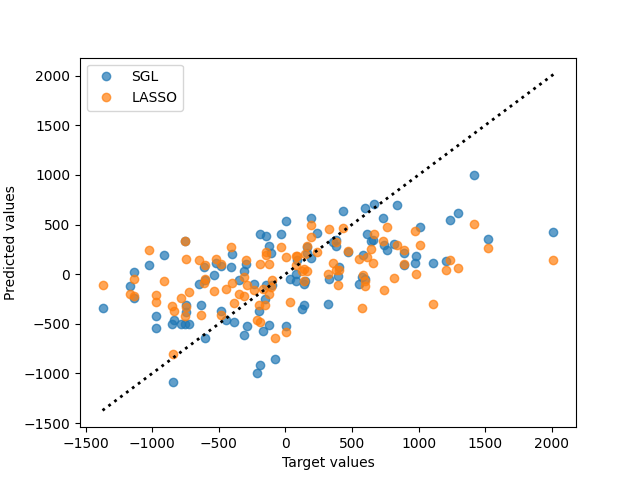
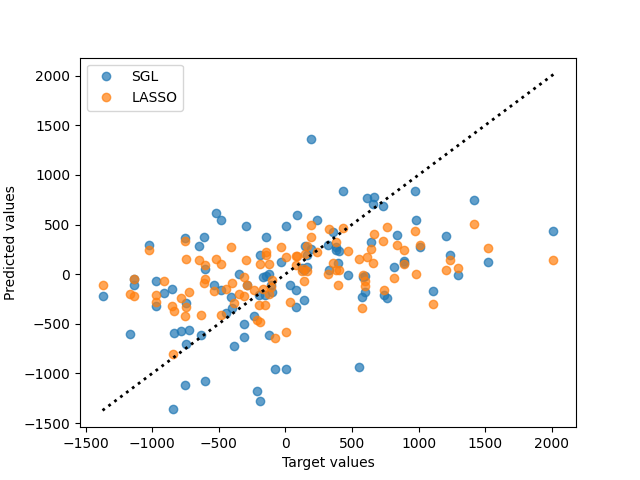
Deploying to gh-pages from  @ ad6680475519f0c9cb05071dbbd4b1300fb7b66e 🚀

diff --git a/searchindex.js b/searchindex.js
@@ -1,1 +1,1 @@
-Search.setIndex({docnames:["api","auto_examples/compare_group_lasso_performance","auto_examples/index","auto_examples/plot_classifier","auto_examples/plot_regressor","auto_examples/sg_execution_times","contributing","faq","getting_help","index","install"],envversion:{"sphinx.domains.c":2,"sphinx.domains.changeset":1,"sphinx.domains.citation":1,"sphinx.domains.cpp":3,"sphinx.domains.index":1,"sphinx.domains.javascript":2,"sphinx.domains.math":2,"sphinx.domains.python":2,"sphinx.domains.rst":2,"sphinx.domains.std":2,"sphinx.ext.intersphinx":1,"sphinx.ext.viewcode":1,sphinx:56},filenames:["api.rst","auto_examples/compare_group_lasso_performance.rst","auto_examples/index.rst","auto_examples/plot_classifier.rst","auto_examples/plot_regressor.rst","auto_examples/sg_execution_times.rst","contributing.rst","faq.rst","getting_help.rst","index.rst","install.rst"],objects:{"groupyr.datasets":{make_group_classification:[0,1,1,""],make_group_regression:[0,1,1,""]},groupyr:{LogisticSGL:[0,0,1,""],LogisticSGLCV:[0,0,1,""],SGL:[0,0,1,""],SGLCV:[0,0,1,""]}},objnames:{"0":["py","class","Python class"],"1":["py","function","Python function"]},objtypes:{"0":"py:class","1":"py:function"},terms:{"000":[1,5],"001":0,"0x7f089fbdad30":4,"100":[0,1,3],"1000":[0,1],"105":5,"10618600":0,"108":9,"1080":0,"122":9,"1283339":9,"150":1,"164":[4,5],"170":4,"1729":[3,4],"194":4,"1rf1mh121868":9,"200":[1,3],"2003":0,"201":3,"2011":9,"2012":0,"2013":9,"2020":9,"203":3,"205":3,"208":3,"209":3,"211":3,"212":3,"214":3,"217":3,"231":[0,9],"240":3,"243":3,"244":3,"245":[0,3,9],"246":3,"250":1,"251":3,"252":3,"256":3,"257":3,"259":3,"261":3,"262":3,"264":3,"265":4,"267":3,"271":3,"272":3,"274":3,"276":3,"277":3,"279":3,"2825":9,"2830":9,"293":4,"345":4,"400":[1,4],"446":4,"468":4,"500":4,"5281":9,"550":4,"559":4,"600":4,"610":4,"681250":0,"683":4,"768":4,"941":[3,5],"boolean":0,"case":0,"class":0,"default":[0,4,9],"float":0,"function":0,"import":[1,2,3,4],"int":[0,1],"new":[7,10],"public":9,"return":0,"true":[0,1,3,4],"try":[0,7],"while":0,And:9,For:[0,9],The:[0,3,4,7,10],There:7,These:[0,2,7],Use:0,__init__:0,_split:4,about:[0,7,8],abov:[9,10],accept:9,accuracy_scor:0,actual:0,adapt:0,add:0,added:0,addit:[1,9],address:7,aforement:7,after:0,alfr:9,algorithm:0,align:0,all:[0,2,8,9,10],allow:[7,8],along:[0,9],alpha:[0,1,4,9],alpha_:0,alpha_max:0,alpha_min:0,alphas_:0,also:[0,6,7,9],altern:[0,10],amount:0,ani:[0,8],anoth:7,append:1,appli:0,appreci:9,approach:9,appropri:[0,6],arang:3,arbitrari:0,ariel:9,around:0,arrai:[0,1,9],arriv:9,ask:8,assign:[0,9],associ:9,attempt:9,attribut:0,auto:1,auto_exampl:5,auto_examples_jupyt:2,auto_examples_python:2,automat:[0,9],balanc:0,base:[7,9],bay:[0,4,9],bayes_optimizer_:0,bayesian:0,bayessearchcv:[0,7],bbox_inch:1,becaus:[0,2,9],befor:[0,8],behavior:9,belong:[0,9],benchmark:0,best:[0,3,9],beta:9,better:7,betti:9,between:[0,9],bia:0,bibtex:9,black:[3,4],bool:0,borrow:9,both:[7,9],brain:9,brows:8,bug:8,built:[0,7],buitnick:9,calcul:0,call:0,callabl:0,can:[0,2,8,9,10],canon:0,capabl:0,center:0,character:9,choic:0,chosen:[0,2],chosen_features_:3,citat:9,class_sep:0,classes_:0,classif:0,classifi:0,click:[1,3,4],clone:10,close:0,cluster:0,code:[1,2,3,4,7,10],coef:[0,1,3,4],coef_:[0,3],coeffici:[0,3,9],collabor:6,color:4,column:9,com:10,combin:[0,9],compar:[2,3,4,7],compare_group_lasso_perform:[1,5],comparison:[2,5],compat:[0,9],compliant:0,complic:9,compos:0,composit:9,compris:0,compromis:0,comput:[0,9],concaten:1,consequ:0,conserv:0,consid:0,constant:0,construct:0,contain:0,context:0,contigu:0,contrast:0,contribut:10,control:9,converg:0,copi:0,copt:[0,9,10],copy_x:0,cost:0,covari:[0,2,7,9],cpu:0,creat:[0,7],credit:6,criterion:0,cross:[7,9],current:9,data:[0,2,4,8,9],dataset:[1,3,4],debug:0,decis:0,defin:[1,9],demonstr:2,depend:0,descent:0,describ:9,design:[0,7,9],detail:[6,9],determin:[0,9],develop:[6,9],deviat:0,did:7,differ:[0,9],difficult:9,dimens:0,dimension:[0,9],distribut:0,divid:0,document:[0,7],doe:[0,7],doi:[0,9],done:9,download:[1,2,3,4],drawn:0,duplic:0,dure:[0,9],each:0,easier:0,ecml:9,ecosystem:0,effect:[0,4],effective_rank:0,effici:[0,9],either:[0,9,10],elasticnet:[0,9],elasticnetcv:9,element:0,ell:9,els:0,encod:0,encourag:[0,7],entri:[0,9],enumer:1,eps:[0,3],equal:0,error:[0,4],escienc:9,estim:[2,3,4,7,9],ethic:8,evalu:[0,9],even:9,examin:8,exampl:[0,1,3,4,10],exce:0,exchang:0,execut:[5,7],exhaust:9,exist:8,expect:0,experi:[0,9],explain:0,face:8,facilit:9,factor:0,fals:[0,4],familiar:[0,9],far:9,faster:7,featur:[0,1,2,3,9,10],features_per_group:0,feedback:7,fewer:[0,9],fig:1,figsiz:1,file:[5,7],find:[0,7,9],fit:[0,1,3,4,9],fit_intercept:0,fix:0,flag:0,flip:9,flip_i:0,fold:0,fontsiz:1,format:4,formula:0,forth:7,found:7,foundat:9,frac:9,fraction:0,friedman:[0,9],frobenius_lipschitz:1,from:[0,1,3,4,6,9,10],full:[1,3,4,9],fulli:0,further:[0,10],futur:7,futurewarn:4,galleri:[1,2,3,4,9,10],gaussian:0,gener:[1,2,3,4],get:[7,9],giant:0,git:10,github:[8,10],give:[0,9],gl_group:1,gl_time:1,global:[1,9],glossari:0,good:[0,7],gordon:9,gpr:[1,4],gpr_time:1,gradient:0,grant:9,graphic:[0,9],green:3,grid:[0,7,9],gridsearchcv:9,ground:[2,3,4],group:[2,5,7],group_lasso:[1,7],group_length:0,group_reg:1,group_siz:1,grouplasso:1,groupyr:[0,2,3,4,5,7,10],groupyr_speedup:1,grp:1,guess:9,guid:[0,6,9,10],guidelin:10,guyon:0,happen:0,happi:7,harder:0,has:[0,4,7],hasti:[0,9],hat:9,have:[0,7],heavili:9,help:7,here:[0,1,3,4,6,7,8,9],high:[4,9],highlight:3,hope:7,hostedtoolcach:4,hot:0,how:[2,7,8,10],howev:[7,9],http:10,hyper:0,hypercub:0,hyperparamet:[0,9],idx:[1,3],ignor:0,imag:9,implement:9,impor:3,includ:[0,7,10],include_solver_trac:0,increas:0,independ:0,index:3,indic:[0,3,9],infer:0,inform:[0,3,7,8,9,10],initi:[0,9],input:0,instal:[1,8],instanc:0,instanti:9,instead:0,institut:9,instruct:9,integ:0,intend:[0,9],intercept:0,intercept_:0,interdepend:0,introduc:0,introductori:9,ipynb:[1,3,4],isn:7,issu:[7,8],iter:0,its:[4,9,10],jerom:0,joblib:0,join:1,journal:[0,9],jupyt:[1,2,3,4],just:0,kei:9,keyword:9,kfold:[0,4],know:[2,8],known:0,l1_ratio:[0,1,3,4,9],l1_ratio_:0,l1_reg:1,label:[0,3,4],lambda:9,languag:9,larger:0,lasso:[2,5,7],lassocv:4,last:0,latest:9,learn:[0,7,9,10],leav:[4,7],legend:[3,4],len:[0,1],length:[0,9],less:10,let:8,level:4,lib:4,librari:[7,9],licens:[6,9],lightn:7,like:[0,10],linear:[0,9],linear_model:4,linearli:0,list:[0,7,9],loc:3,locat:0,log:0,logist:[0,2,5],logistic_sgl_path:0,logisticregress:9,logisticregressioncv:9,logisticsgl:0,logisticsglcv:[0,3],logo:9,look:[0,9],love:6,machin:9,madelon:0,mai:[0,10],maintain:7,make:[0,8,9],make_blob:0,make_classif:0,make_group_classif:[0,3],make_group_regress:[0,1,4],make_multilabel_classif:0,make_regress:0,mani:7,marker:[3,4],mathbf:9,matplotlib:[1,3,4],matrix:[0,9],max:4,max_alpha:0,max_it:[0,1],max_val:4,maximum:0,mean:[0,6],mean_squared_error:4,mec:3,membership:0,method:[0,7,10],metric:[0,4],mew:3,mfc:3,might:8,mild:0,min:4,min_:9,min_val:4,mine:9,minimum:0,minumum:0,minut:[1,3,4],mixtur:9,model:[0,1,2,3,4,7,9],model_select:[0,1,4],moor:9,more:[0,6,9],most:7,multilabel:0,multipl:0,multipli:0,must:9,n_alpha:[0,3],n_bayes_it:[0,4],n_bayes_point:0,n_class:[0,3],n_clusters_per_class:0,n_featur:[0,1,3],n_features_per_group:[0,1,3,4],n_fold:0,n_group:[0,1,3,4],n_inform:0,n_informative_group:[0,1,3,4],n_informative_per_group:[0,1,3,4],n_iter:1,n_iter_:0,n_job:0,n_l1_ratio:0,n_redund:0,n_redundant_per_group:[0,3],n_repeat:0,n_repeated_per_group:[0,3],n_sampl:[0,1,3,4],n_target:0,ndarrai:0,necessari:9,need:[1,8,9],next:10,nimh:9,nine:0,nip:0,noah:0,nois:[0,1,4],non:[0,3],none:[0,3,4],norm:0,normal:[0,9],note:0,notebook:[1,2,3,4],nsgl:4,number:[0,1,9],numpi:[0,1,3,4,9,10],object:[0,4],off:0,offer:9,often:8,one:[0,7,9],onli:[0,9],open:6,oper:8,opt:4,optim:[0,7,9,10],option:0,order:0,other:[0,7],our:[6,7,8,9],out:[0,3,4,7],outperform:9,output:0,outsid:6,over:0,overal:0,overlap:0,overwritten:0,own:7,packag:[1,4,7],page:7,parallel:[0,9],parallel_backend:0,paramet:[0,9],partit:0,pass:0,path:[0,9],pdf:1,pedregosa:9,penal:[0,2,7,9],penalti:[0,7,9],per:0,perform:[2,4,5],pertin:8,pgd:0,pip:[1,10],pkdd:9,place:0,pleas:[0,7,8,9],plot:[1,3,4],plot_classifi:[3,5],plot_regressor:[4,5],plt:[1,3,4],point:0,polytop:0,posit:0,possibl:0,post:8,pre:9,predefin:9,predict:[0,4,9],predictor:0,preprocess:0,previou:[0,9],previous:9,primari:0,print:[3,4],prior:0,problem:[0,1,2,7,9],procedur:8,processor:0,produc:0,project:[6,9],promot:9,proport:0,provid:[0,8,9],proxim:0,put:0,pypi:10,pyplot:[1,3,4],python3:4,python:[1,2,3,4,7,10],qualiti:0,r2_score:4,rais:4,randal:9,random:[0,9],random_st:[0,1,3,4],randomli:0,randomst:0,ratio:1,reach:0,recommend:10,redund:0,regress:[0,2,3,7,9],regressor:0,regular:[0,9],relat:9,relationship:9,reli:9,remain:0,repeat:0,repositori:[8,10],reproduc:0,requir:10,research:[6,7,9],reshap:1,result:[0,4],reus:0,richford:10,rmse:4,robert:0,rokem:9,root:0,routin:0,rudimentari:[2,5],run:[0,1,3,4,8],runtim:0,same:[0,9],sampl:[0,8],satisfi:9,savefig:1,scale:[0,3],scale_l2_bi:0,scale_reg:1,scientif:9,scikit:[0,9,10],scipi:10,scope:7,score:0,scorer:0,scoring_path_:0,script:[1,3,4],search:[0,7,9],second:[1,3,4],see:[0,6,7,9,10],seed:0,select:[0,9],send:8,sequenti:[7,9],set:[0,4,9],set_titl:1,set_xlabel:1,set_ylabel:1,sgl:[0,1,4,9],sgl_path:0,sglcv:[0,4],shape:[0,3],share:[8,9],shift:0,should:[0,4,9],show:3,shuffl:[0,1,4],side:0,signal:[2,5],signatur:0,silhouett:9,similar:7,simon:[0,9],simplifi:0,simul:[3,4],sinc:4,singular:0,site:4,size:[0,1],sklearn:[0,1,4],skopt:0,sloan:9,small:8,smbo:9,softwar:[6,8,9],solut:[0,9],solv:[0,2],solver:[0,9],some:[0,7],sourc:[0,1,2,3,4,6,10],spars:[2,5],sparsiti:[0,4,9],specifi:[0,7,9],speedup:1,sphinx:[1,2,3,4],split:0,splitter:0,spread:0,sqrt:[4,9],squar:0,stabl:10,stack:0,standard:0,standardscal:0,start:[0,9],statist:[0,7,9],std:0,stop:0,strategi:[0,9],stratifiedkfold:0,strength:[0,9],string:0,strong:0,studi:8,submatrix:9,subplot:1,subspac:0,subtract:0,suit:7,sum:0,sum_:9,supervis:9,support:9,suppress:0,suppress_solver_warn:0,supress_warn:1,sure:8,syntact:9,synthet:[0,2],system:8,target:[4,9],task:0,techniqu:0,templat:9,term:0,test:[0,4],test_siz:[1,4],than:[0,9],thei:0,them:6,therefor:9,thi:[0,1,4,6,8,9,10],three:0,through:9,tibshirani:[0,9],tight:1,time:[0,1,3,4,7],timeit:1,titl:3,tol:[0,1,3],toler:0,tool:7,total:[0,1,3,4,5,9],tqdm:[1,10],trade:0,train:[0,4],train_test_split:[1,4],transform:0,trevor:0,trivial:0,truth:[2,3,4],tune:0,tuning_strategi:[0,4,9],type:0,uniformli:0,univers:9,unless:0,unrel:0,unshuffl:0,unsupervis:7,use:[0,2,6,9,10],used:[0,2,9],useful:[0,7],useful_indic:[0,3],useless:0,user:[0,7,9,10],uses:0,using:[0,1,7,9,10],usual:9,valid:[7,9],valu:[0,4,9],vari:0,variabl:[0,9],variant:0,variou:[0,1],vector:[0,9],verbos:0,version:[0,8],vertic:0,via:0,vol:0,wai:10,want:[0,7],warm:[0,9],warm_start:0,warn:[0,4],washington:9,weight:0,welcom:6,well:[7,8,9],what:8,when:0,where:[0,3,9],whether:0,which:[0,9],whose:0,why:7,wise:[0,9],wish:0,within:0,without:9,work:7,workflow:9,workshop:9,would:[0,7,9,10],written:6,x64:4,x_test:[1,4],x_train:[1,4],xlabel:[3,4],y_test:[1,4],y_train:[1,4],yield:[0,9],ylabel:[3,4],you:[0,1,4,6,7,8,9,10],your:[7,8],zenodo:9,zero:[0,3],zip:2},titles:["API Reference","Rudimentary performance comparison of groupyr and group-lasso","Examples","Logistic Sparse Group Lasso for grouped sparse signals","Sparse Group Lasso for grouped sparse signals","Computation times","Contributing to <em>groupyr</em>","Frequently Asked Questions","Getting help using <em>groupyr</em>","<em>Groupyr</em>: Sparse Group Lasso in Python","Installation"],titleterms:{The:9,acknowledg:9,api:[0,9],ask:7,cite:9,comparison:1,comput:5,contribut:6,cross:0,dataset:0,depend:10,develop:10,document:9,estim:0,exampl:[2,9],frequent:7,gener:0,get:8,group:[0,1,3,4,9],groupyr:[1,6,8,9],help:8,instal:[9,10],lasso:[0,1,3,4,9],logist:3,perform:1,python:9,question:7,refer:[0,9],releas:10,rudimentari:1,signal:[3,4],spars:[0,3,4,9],time:5,usag:9,using:8,valid:0,version:10}})
+Search.setIndex({docnames:["api","auto_examples/compare_group_lasso_performance","auto_examples/index","auto_examples/plot_classifier","auto_examples/plot_regressor","auto_examples/sg_execution_times","contributing","faq","getting_help","index","install"],envversion:{"sphinx.domains.c":2,"sphinx.domains.changeset":1,"sphinx.domains.citation":1,"sphinx.domains.cpp":3,"sphinx.domains.index":1,"sphinx.domains.javascript":2,"sphinx.domains.math":2,"sphinx.domains.python":2,"sphinx.domains.rst":2,"sphinx.domains.std":2,"sphinx.ext.intersphinx":1,"sphinx.ext.viewcode":1,sphinx:56},filenames:["api.rst","auto_examples/compare_group_lasso_performance.rst","auto_examples/index.rst","auto_examples/plot_classifier.rst","auto_examples/plot_regressor.rst","auto_examples/sg_execution_times.rst","contributing.rst","faq.rst","getting_help.rst","index.rst","install.rst"],objects:{"groupyr.datasets":{make_group_classification:[0,1,1,""],make_group_regression:[0,1,1,""]},groupyr:{LogisticSGL:[0,0,1,""],LogisticSGLCV:[0,0,1,""],SGL:[0,0,1,""],SGLCV:[0,0,1,""]}},objnames:{"0":["py","class","Python class"],"1":["py","function","Python function"]},objtypes:{"0":"py:class","1":"py:function"},terms:{"000":[1,4,5],"001":0,"081":4,"097":[3,5],"0x7f81d7413110":4,"100":[0,1,3],"1000":[0,1],"10618600":0,"108":9,"1080":0,"122":9,"1283339":9,"150":1,"170":4,"1729":[3,4],"188":4,"194":4,"1rf1mh121868":9,"200":[1,3],"2003":0,"201":3,"2011":9,"2012":0,"2013":9,"2020":9,"203":3,"205":3,"208":3,"209":3,"211":3,"212":3,"214":3,"216":4,"217":3,"231":[0,9],"240":3,"243":3,"244":3,"245":[0,3,9],"246":3,"250":1,"251":3,"252":3,"256":3,"257":3,"259":3,"261":3,"262":3,"264":3,"267":3,"271":3,"272":3,"274":3,"276":3,"277":3,"279":3,"2825":9,"2830":9,"297":4,"400":[1,4],"446":4,"500":4,"5281":9,"600":4,"610":4,"652":4,"681250":0,"683":4,"789":[4,5],"886":5,"boolean":0,"case":0,"class":0,"default":[0,4,9],"float":0,"function":0,"import":[1,2,3,4],"int":[0,1],"new":[7,10],"public":9,"return":0,"true":[0,1,3,4],"try":[0,7],"while":0,And:9,For:[0,9],The:[0,3,4,7,10],There:7,These:[0,2,7],Use:0,__init__:0,_split:4,about:[0,7,8],abov:[9,10],accept:9,accuracy_scor:0,actual:0,adapt:0,add:0,added:0,addit:[1,9],address:7,aforement:7,after:0,alfr:9,algorithm:0,align:0,all:[0,2,8,9,10],allow:[7,8],along:[0,9],alpha:[0,1,4,9],alpha_:0,alpha_max:0,alpha_min:0,alphas_:0,also:[0,6,7,9],altern:[0,10],amount:0,ani:[0,8],anoth:7,append:1,appli:0,appreci:9,approach:9,appropri:[0,6],arang:3,arbitrari:0,ariel:9,around:0,arrai:[0,1,9],arriv:9,ask:8,assign:[0,9],associ:9,attempt:9,attribut:0,auto:1,auto_exampl:5,auto_examples_jupyt:2,auto_examples_python:2,automat:[0,9],balanc:0,base:[7,9],bay:[0,4,9],bayes_optimizer_:0,bayesian:0,bayessearchcv:[0,7],bbox_inch:1,becaus:[0,2,9],befor:[0,8],behavior:9,belong:[0,9],benchmark:0,best:[0,3,9],beta:9,better:7,betti:9,between:[0,9],bia:0,bibtex:9,black:[3,4],bool:0,borrow:9,both:[7,9],brain:9,brows:8,bug:8,built:[0,7],buitnick:9,calcul:0,call:0,callabl:0,can:[0,2,8,9,10],canon:0,capabl:0,center:0,character:9,choic:0,chosen:[0,2],chosen_features_:3,citat:9,class_sep:0,classes_:0,classif:0,classifi:0,click:[1,3,4],clone:10,close:0,cluster:0,code:[1,2,3,4,7,10],coef:[0,1,3,4],coef_:[0,3],coeffici:[0,3,9],collabor:6,color:4,column:9,com:10,combin:[0,9],compar:[2,3,4,7],compare_group_lasso_perform:[1,5],comparison:[2,5],compat:[0,9],compliant:0,complic:9,compos:0,composit:9,compris:0,compromis:0,comput:[0,9],concaten:1,consequ:0,conserv:0,consid:0,constant:0,construct:0,contain:0,context:0,contigu:0,contrast:0,contribut:10,control:9,converg:0,copi:0,copt:[0,9,10],copy_x:0,cost:0,covari:[0,2,7,9],cpu:0,creat:[0,7],credit:6,criterion:0,cross:[7,9],current:9,data:[0,2,4,8,9],dataset:[1,3,4],debug:0,decis:0,defin:[1,9],demonstr:2,depend:0,descent:0,describ:9,design:[0,7,9],detail:[6,9],determin:[0,9],develop:[6,9],deviat:0,did:7,differ:[0,9],difficult:9,dimens:0,dimension:[0,9],distribut:0,divid:0,document:[0,7],doe:[0,7],doi:[0,9],done:9,download:[1,2,3,4],drawn:0,duplic:0,dure:[0,9],each:0,easier:0,ecml:9,ecosystem:0,effect:[0,4],effective_rank:0,effici:[0,9],either:[0,9,10],elasticnet:[0,9],elasticnetcv:9,element:0,ell:9,els:0,encod:0,encourag:[0,7],entri:[0,9],enumer:1,eps:[0,3],equal:0,error:[0,4],escienc:9,estim:[2,3,4,7,9],ethic:8,evalu:[0,9],even:9,examin:8,exampl:[0,1,3,4,10],exce:0,exchang:0,execut:[5,7],exhaust:9,exist:8,expect:0,experi:[0,9],explain:0,face:8,facilit:9,factor:0,fals:[0,4],familiar:[0,9],far:9,faster:7,featur:[0,1,2,3,9,10],features_per_group:0,feedback:7,fewer:[0,9],fig:1,figsiz:1,file:[5,7],find:[0,7,9],fit:[0,1,3,4,9],fit_intercept:0,fix:0,flag:0,flip:9,flip_i:0,fold:0,fontsiz:1,format:4,formula:0,forth:7,found:7,foundat:9,frac:9,fraction:0,friedman:[0,9],frobenius_lipschitz:1,from:[0,1,3,4,6,9,10],full:[1,3,4,9],fulli:0,further:[0,10],futur:7,futurewarn:4,galleri:[1,2,3,4,9,10],gaussian:0,gener:[1,2,3,4],get:[7,9],giant:0,git:10,github:[8,10],give:[0,9],gl_group:1,gl_time:1,global:[1,9],glossari:0,good:[0,7],gordon:9,gpr:[1,4],gpr_time:1,gradient:0,grant:9,graphic:[0,9],green:3,grid:[0,7,9],gridsearchcv:9,ground:[2,3,4],group:[2,5,7],group_lasso:[1,7],group_length:0,group_reg:1,group_siz:1,grouplasso:1,groupyr:[0,2,3,4,5,7,10],groupyr_speedup:1,grp:1,guess:9,guid:[0,6,9,10],guidelin:10,guyon:0,happen:0,happi:7,harder:0,has:[0,4,7],hasti:[0,9],hat:9,have:[0,7],heavili:9,help:7,here:[0,1,3,4,6,7,8,9],high:[4,9],highlight:3,hope:7,hostedtoolcach:4,hot:0,how:[2,7,8,10],howev:[7,9],http:10,hyper:0,hypercub:0,hyperparamet:[0,9],idx:[1,3],ignor:0,imag:9,implement:9,impor:3,includ:[0,7,10],include_solver_trac:0,increas:0,independ:0,index:3,indic:[0,3,9],infer:0,inform:[0,3,7,8,9,10],initi:[0,9],input:0,instal:[1,8],instanc:0,instanti:9,instead:0,institut:9,instruct:9,integ:0,intend:[0,9],intercept:0,intercept_:0,interdepend:0,introduc:0,introductori:9,ipynb:[1,3,4],isn:7,issu:[7,8],iter:0,its:[4,9,10],jerom:0,joblib:0,join:1,journal:[0,9],jupyt:[1,2,3,4],just:0,kei:9,keyword:9,kfold:[0,4],know:[2,8],known:0,l1_ratio:[0,1,3,4,9],l1_ratio_:0,l1_reg:1,label:[0,3,4],lambda:9,languag:9,larger:0,lasso:[2,5,7],lassocv:4,last:0,latest:9,learn:[0,7,9,10],leav:[4,7],legend:[3,4],len:[0,1],length:[0,9],less:10,let:8,level:4,lib:4,librari:[7,9],licens:[6,9],lightn:7,like:[0,10],linear:[0,9],linear_model:4,linearli:0,list:[0,7,9],loc:3,locat:0,log:0,logist:[0,2,5],logistic_sgl_path:0,logisticregress:9,logisticregressioncv:9,logisticsgl:0,logisticsglcv:[0,3],logo:9,look:[0,9],love:6,machin:9,madelon:0,mai:[0,10],maintain:7,make:[0,8,9],make_blob:0,make_classif:0,make_group_classif:[0,3],make_group_regress:[0,1,4],make_multilabel_classif:0,make_regress:0,mani:7,marker:[3,4],mathbf:9,matplotlib:[1,3,4],matrix:[0,9],max:4,max_alpha:0,max_it:[0,1],max_val:4,maximum:0,mean:[0,6],mean_squared_error:4,mec:3,membership:0,method:[0,7,10],metric:[0,4],mew:3,mfc:3,might:8,mild:0,min:4,min_:9,min_val:4,mine:9,minimum:0,minumum:0,minut:[1,3,4],mixtur:9,model:[0,1,2,3,4,7,9],model_select:[0,1,4],moor:9,more:[0,6,9],most:7,multilabel:0,multipl:0,multipli:0,must:9,n_alpha:[0,3],n_bayes_it:[0,4],n_bayes_point:0,n_class:[0,3],n_clusters_per_class:0,n_featur:[0,1,3],n_features_per_group:[0,1,3,4],n_fold:0,n_group:[0,1,3,4],n_inform:0,n_informative_group:[0,1,3,4],n_informative_per_group:[0,1,3,4],n_iter:1,n_iter_:0,n_job:0,n_l1_ratio:0,n_redund:0,n_redundant_per_group:[0,3],n_repeat:0,n_repeated_per_group:[0,3],n_sampl:[0,1,3,4],n_target:0,ndarrai:0,necessari:9,need:[1,8,9],next:10,nimh:9,nine:0,nip:0,noah:0,nois:[0,1,4],non:[0,3],none:[0,3,4],norm:0,normal:[0,9],note:0,notebook:[1,2,3,4],nsgl:4,number:[0,1,9],numpi:[0,1,3,4,9,10],object:[0,4],off:0,offer:9,often:8,one:[0,7,9],onli:[0,9],open:6,oper:8,opt:4,optim:[0,7,9,10],option:0,order:0,other:[0,7],our:[6,7,8,9],out:[0,3,4,7],outperform:9,output:0,outsid:6,over:0,overal:0,overlap:0,overwritten:0,own:7,packag:[1,4,7],page:7,parallel:[0,9],parallel_backend:0,paramet:[0,9],partit:0,pass:0,path:[0,9],pdf:1,pedregosa:9,penal:[0,2,7,9],penalti:[0,7,9],per:0,perform:[2,4,5],pertin:8,pgd:0,pip:[1,10],pkdd:9,place:0,pleas:[0,7,8,9],plot:[1,3,4],plot_classifi:[3,5],plot_regressor:[4,5],plt:[1,3,4],point:0,polytop:0,posit:0,possibl:0,post:8,pre:9,predefin:9,predict:[0,4,9],predictor:0,preprocess:0,previou:[0,9],previous:9,primari:0,print:[3,4],prior:0,problem:[0,1,2,7,9],procedur:8,processor:0,produc:0,project:[6,9],promot:9,proport:0,provid:[0,8,9],proxim:0,put:0,pypi:10,pyplot:[1,3,4],python3:4,python:[1,2,3,4,7,10],qualiti:0,r2_score:4,rais:4,randal:9,random:[0,9],random_st:[0,1,3,4],randomli:0,randomst:0,ratio:1,reach:0,recommend:10,redund:0,regress:[0,2,3,7,9],regressor:0,regular:[0,9],relat:9,relationship:9,reli:9,remain:0,repeat:0,repositori:[8,10],reproduc:0,requir:10,research:[6,7,9],reshap:1,result:[0,4],reus:0,richford:10,rmse:4,robert:0,rokem:9,root:0,routin:0,rudimentari:[2,5],run:[0,1,3,4,8],runtim:0,same:[0,9],sampl:[0,8],satisfi:9,savefig:1,scale:[0,3],scale_l2_bi:0,scale_reg:1,scientif:9,scikit:[0,9,10],scipi:10,scope:7,score:0,scorer:0,scoring_path_:0,script:[1,3,4],search:[0,7,9],second:[1,3,4],see:[0,6,7,9,10],seed:0,select:[0,9],send:8,sequenti:[7,9],set:[0,4,9],set_titl:1,set_xlabel:1,set_ylabel:1,sgl:[0,1,4,9],sgl_path:0,sglcv:[0,4],shape:[0,3],share:[8,9],shift:0,should:[0,4,9],show:3,shuffl:[0,1,4],side:0,signal:[2,5],signatur:0,silhouett:9,similar:7,simon:[0,9],simplifi:0,simul:[3,4],sinc:4,singular:0,site:4,size:[0,1],sklearn:[0,1,4],skopt:0,sloan:9,small:8,smbo:9,softwar:[6,8,9],solut:[0,9],solv:[0,2],solver:[0,9],some:[0,7],sourc:[0,1,2,3,4,6,10],spars:[2,5],sparsiti:[0,4,9],specifi:[0,7,9],speedup:1,sphinx:[1,2,3,4],split:0,splitter:0,spread:0,sqrt:[4,9],squar:0,stabl:10,stack:0,standard:0,standardscal:0,start:[0,9],statist:[0,7,9],std:0,stop:0,strategi:[0,9],stratifiedkfold:0,strength:[0,9],string:0,strong:0,studi:8,submatrix:9,subplot:1,subspac:0,subtract:0,suit:7,sum:0,sum_:9,supervis:9,support:9,suppress:0,suppress_solver_warn:0,supress_warn:1,sure:8,syntact:9,synthet:[0,2],system:8,target:[4,9],task:0,techniqu:0,templat:9,term:0,test:[0,4],test_siz:[1,4],than:[0,9],thei:0,them:6,therefor:9,thi:[0,1,4,6,8,9,10],three:0,through:9,tibshirani:[0,9],tight:1,time:[0,1,3,4,7],timeit:1,titl:3,tol:[0,1,3],toler:0,tool:7,total:[0,1,3,4,5,9],tqdm:[1,10],trade:0,train:[0,4],train_test_split:[1,4],transform:0,trevor:0,trivial:0,truth:[2,3,4],tune:0,tuning_strategi:[0,4,9],type:0,uniformli:0,univers:9,unless:0,unrel:0,unshuffl:0,unsupervis:7,use:[0,2,6,9,10],used:[0,2,9],useful:[0,7],useful_indic:[0,3],useless:0,user:[0,7,9,10],uses:0,using:[0,1,7,9,10],usual:9,valid:[7,9],valu:[0,4,9],vari:0,variabl:[0,9],variant:0,variou:[0,1],vector:[0,9],verbos:0,version:[0,8],vertic:0,via:0,vol:0,wai:10,want:[0,7],warm:[0,9],warm_start:0,warn:0,washington:9,weight:0,welcom:6,well:[7,8,9],what:8,when:0,where:[0,3,9],whether:0,which:[0,9],whose:0,why:7,wise:[0,9],wish:0,within:0,without:9,work:7,workflow:9,workshop:9,would:[0,7,9,10],written:6,x64:4,x_test:[1,4],x_train:[1,4],xlabel:[3,4],y_test:[1,4],y_train:[1,4],yield:[0,9],ylabel:[3,4],you:[0,1,4,6,7,8,9,10],your:[7,8],zenodo:9,zero:[0,3],zip:2},titles:["API Reference","Rudimentary performance comparison of groupyr and group-lasso","Examples","Logistic Sparse Group Lasso for grouped sparse signals","Sparse Group Lasso for grouped sparse signals","Computation times","Contributing to <em>groupyr</em>","Frequently Asked Questions","Getting help using <em>groupyr</em>","<em>Groupyr</em>: Sparse Group Lasso in Python","Installation"],titleterms:{The:9,acknowledg:9,api:[0,9],ask:7,cite:9,comparison:1,comput:5,contribut:6,cross:0,dataset:0,depend:10,develop:10,document:9,estim:0,exampl:[2,9],frequent:7,gener:0,get:8,group:[0,1,3,4,9],groupyr:[1,6,8,9],help:8,instal:[9,10],lasso:[0,1,3,4,9],logist:3,perform:1,python:9,question:7,refer:[0,9],releas:10,rudimentari:1,signal:[3,4],spars:[0,3,4,9],time:5,usag:9,using:8,valid:0,version:10}})

diff --git a/auto_examples/plot_regressor.html b/auto_examples/plot_regressor.html
@@ -198,19 +198,19 @@ group-level sparsity. The prediction is compared to the ground truth and to
 the results of a Lasso model.</p>
 <img alt="plot regressor" class="sphx-glr-single-img" src="../_images/sphx_glr_plot_regressor_001.png" />
 <p class="sphx-glr-script-out">Out:</p>
-<div class="sphx-glr-script-out highlight-none notranslate"><div class="highlight"><pre><span></span>/opt/hostedtoolcache/Python/3.8.7/x64/lib/python3.8/site-packages/sklearn/model_selection/_split.py:293: FutureWarning: Setting a random_state has no effect since shuffle is False. This will raise an error in 0.24. You should leave random_state to its default (None), or set shuffle=True.
-  warnings.warn(
-/opt/hostedtoolcache/Python/3.8.7/x64/lib/python3.8/site-packages/sklearn/model_selection/_split.py:293: FutureWarning: Setting a random_state has no effect since shuffle is False. This will raise an error in 0.24. You should leave random_state to its default (None), or set shuffle=True.
-  warnings.warn(
+<div class="sphx-glr-script-out highlight-none notranslate"><div class="highlight"><pre><span></span>/opt/hostedtoolcache/Python/3.7.10/x64/lib/python3.7/site-packages/sklearn/model_selection/_split.py:297: FutureWarning: Setting a random_state has no effect since shuffle is False. This will raise an error in 0.24. You should leave random_state to its default (None), or set shuffle=True.
+  FutureWarning
+/opt/hostedtoolcache/Python/3.7.10/x64/lib/python3.7/site-packages/sklearn/model_selection/_split.py:297: FutureWarning: Setting a random_state has no effect since shuffle is False. This will raise an error in 0.24. You should leave random_state to its default (None), or set shuffle=True.
+  FutureWarning
 Lasso performance:
 train: R^2 = 0.600, RMSE = 446.170
 test:  R^2 = 0.194, RMSE = 610.683
 
 SGL performance:
-train: R^2 = 0.559, RMSE = 468.265
-test:  R^2 = 0.345, RMSE = 550.768
+train: R^2 = 1.000, RMSE =   8.216
+test:  R^2 = 0.081, RMSE = 652.188
 
-&lt;matplotlib.legend.Legend object at 0x7f089fbdad30&gt;
+&lt;matplotlib.legend.Legend object at 0x7f81d7413110&gt;
 </pre></div>
 </div>
 <div class="line-block">
@@ -297,7 +297,7 @@ test:  R^2 = 0.345, RMSE = 550.768
 <a href="https://matplotlib.org/api/_as_gen/matplotlib.pyplot.legend.html#matplotlib.pyplot.legend" title="matplotlib.pyplot.legend" class="sphx-glr-backref-module-matplotlib-pyplot sphx-glr-backref-type-py-function"><span class="n">plt</span><span class="o">.</span><span class="n">legend</span></a><span class="p">()</span>
 </pre></div>
 </div>
-<p class="sphx-glr-timing"><strong>Total running time of the script:</strong> ( 1 minutes  48.164 seconds)</p>
+<p class="sphx-glr-timing"><strong>Total running time of the script:</strong> ( 2 minutes  48.789 seconds)</p>
 <div class="sphx-glr-footer class sphx-glr-footer-example docutils container" id="sphx-glr-download-auto-examples-plot-regressor-py">
 <div class="sphx-glr-download sphx-glr-download-python docutils container">
 <p><a class="reference download internal" download="" href="../_downloads/901949dfa1ed15c1c16a529b043feba7/plot_regressor.py"><code class="xref download docutils literal notranslate"><span class="pre">Download</span> <span class="pre">Python</span> <span class="pre">source</span> <span class="pre">code:</span> <span class="pre">plot_regressor.py</span></code></a></p>

diff --git a/auto_examples/sg_execution_times.html b/auto_examples/sg_execution_times.html
@@ -179,7 +179,7 @@
             
   <div class="section" id="computation-times">
 <span id="sphx-glr-auto-examples-sg-execution-times"></span><h1>Computation times<a class="headerlink" href="#computation-times" title="Permalink to this headline">¶</a></h1>
-<p><strong>03:02.105</strong> total execution time for <strong>auto_examples</strong> files:</p>
+<p><strong>03:58.886</strong> total execution time for <strong>auto_examples</strong> files:</p>
 <table class="docutils align-default">
 <colgroup>
 <col style="width: 85%" />
@@ -188,11 +188,11 @@
 </colgroup>
 <tbody>
 <tr class="row-odd"><td><p><a class="reference internal" href="plot_regressor.html#sphx-glr-auto-examples-plot-regressor-py"><span class="std std-ref">Sparse Group Lasso for grouped sparse signals</span></a> (<code class="docutils literal notranslate"><span class="pre">plot_regressor.py</span></code>)</p></td>
-<td><p>01:48.164</p></td>
+<td><p>02:48.789</p></td>
 <td><p>0.0 MB</p></td>
 </tr>
 <tr class="row-even"><td><p><a class="reference internal" href="plot_classifier.html#sphx-glr-auto-examples-plot-classifier-py"><span class="std std-ref">Logistic Sparse Group Lasso for grouped sparse signals</span></a> (<code class="docutils literal notranslate"><span class="pre">plot_classifier.py</span></code>)</p></td>
-<td><p>01:13.941</p></td>
+<td><p>01:10.097</p></td>
 <td><p>0.0 MB</p></td>
 </tr>
 <tr class="row-odd"><td><p><a class="reference internal" href="compare_group_lasso_performance.html#sphx-glr-auto-examples-compare-group-lasso-performance-py"><span class="std std-ref">Rudimentary performance comparison of groupyr and group-lasso</span></a> (<code class="docutils literal notranslate"><span class="pre">compare_group_lasso_performance.py</span></code>)</p></td>

diff --git a/auto_examples/plot_classifier.html b/auto_examples/plot_classifier.html
@@ -272,7 +272,7 @@ Indices of non-zero estimated coefs:
 <span class="nb">print</span><span class="p">(</span><a href="../api.html#groupyr.LogisticSGLCV" title="groupyr.LogisticSGLCV" class="sphx-glr-backref-module-groupyr sphx-glr-backref-type-py-class sphx-glr-backref-instance"><span class="n">model</span></a><span class="o">.</span><span class="n">chosen_features_</span><span class="p">)</span>
 </pre></div>
 </div>
-<p class="sphx-glr-timing"><strong>Total running time of the script:</strong> ( 1 minutes  13.941 seconds)</p>
+<p class="sphx-glr-timing"><strong>Total running time of the script:</strong> ( 1 minutes  10.097 seconds)</p>
 <div class="sphx-glr-footer class sphx-glr-footer-example docutils container" id="sphx-glr-download-auto-examples-plot-classifier-py">
 <div class="sphx-glr-download sphx-glr-download-python docutils container">
 <p><a class="reference download internal" download="" href="../_downloads/084669b45b226af6f637ab8457c8c5aa/plot_classifier.py"><code class="xref download docutils literal notranslate"><span class="pre">Download</span> <span class="pre">Python</span> <span class="pre">source</span> <span class="pre">code:</span> <span class="pre">plot_classifier.py</span></code></a></p>
